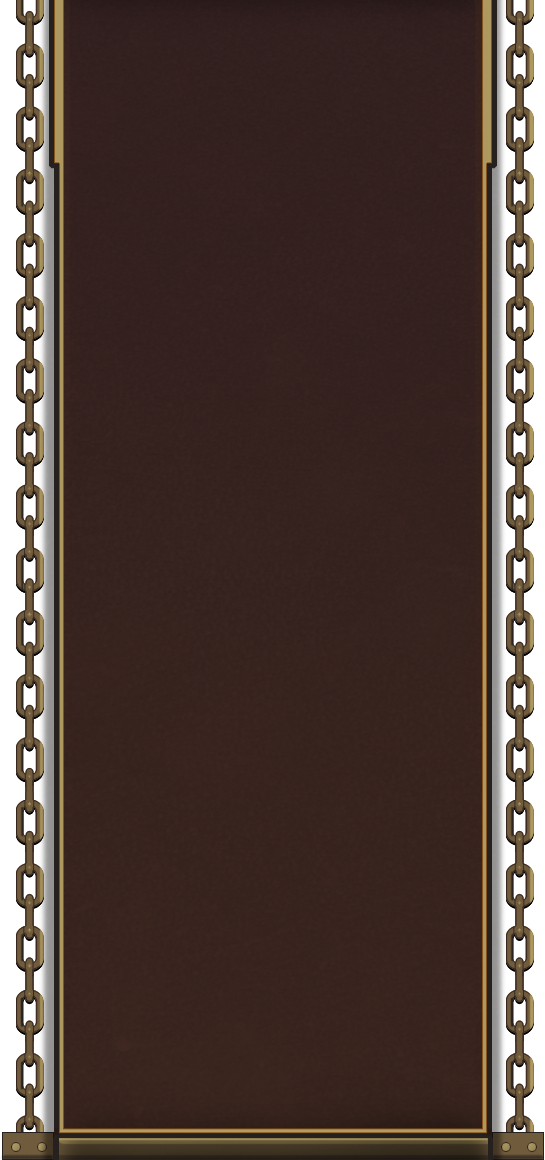
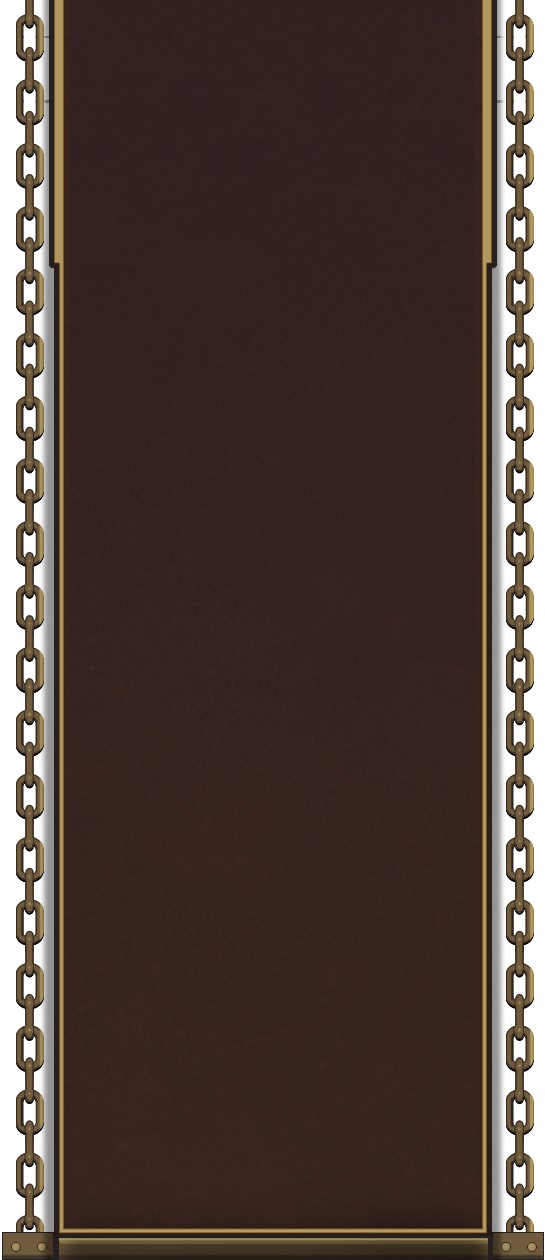
Main menu is even cooler

Changed region(s): [[0.0312, 0.0, 0.9982, 0.9931]]

diff --git a/GoopEngine/GoopScripts/Source/Button/MainMenuToScene.cs b/GoopEngine/GoopScripts/Source/Button/MainMenuToScene.cs
@@ -22,29 +22,47 @@ namespace GoopScripts.Transition
   public class MainMenuToScene : TextButtonBase
   {
     public int Scene;
+    private bool m_shouldTransition;
+    public double m_delay;
+    private double m_currentTime;
 
     public override void OnRelease(uint entity)
-    {
+    {      
 			base.OnRelease(entity);
-			switch (Scene)
-			{
-				case 0:
-					Utils.PlayTransformAnimation(Utils.GetEntity("TransitionOut"), "Cutscene");
-					break;
-        case 1: // LOAD GAME
-          Utils.PlayTransformAnimation(Utils.GetEntity("TransitionOut"), "Game");
-          break;
-        case 2:
-          Utils.PlayTransformAnimation(Utils.GetEntity("TransitionOut"), "Options");
-          break;
-        case 3:
-          Utils.PlayTransformAnimation(Utils.GetEntity("TransitionOut"), "HowToPlay");
-          break;
-        case 4:
-          Utils.PlayTransformAnimation(Utils.GetEntity("TransitionOut"), "Credits");
-          break;
-        default: break;
-      }
+			Utils.PlayTransformAnimation(Utils.GetEntity("[Image] Button Panel"), "GoUp");
+      m_shouldTransition = true;
+			m_currentTime = 0.0f;
+    }
+
+		public void OnUpdate(double dt)
+		{
+      if (m_shouldTransition)
+      {
+				if (m_currentTime > m_delay)
+				{
+					switch (Scene)
+					{
+						case 0:
+							Utils.PlayTransformAnimation(Utils.GetEntity("TransitionOut"), "Cutscene");
+							break;
+						case 1: // LOAD GAME
+							Utils.PlayTransformAnimation(Utils.GetEntity("TransitionOut"), "Game");
+							break;
+						case 2:
+							Utils.PlayTransformAnimation(Utils.GetEntity("TransitionOut"), "Options");
+							break;
+						case 3:
+							Utils.PlayTransformAnimation(Utils.GetEntity("TransitionOut"), "HowToPlay");
+							break;
+						case 4:
+							Utils.PlayTransformAnimation(Utils.GetEntity("TransitionOut"), "Credits");
+							break;
+						default: break;
+					}
+					m_shouldTransition = false;
+				}
+				m_currentTime += dt;
+			}
     }
   }
 }
